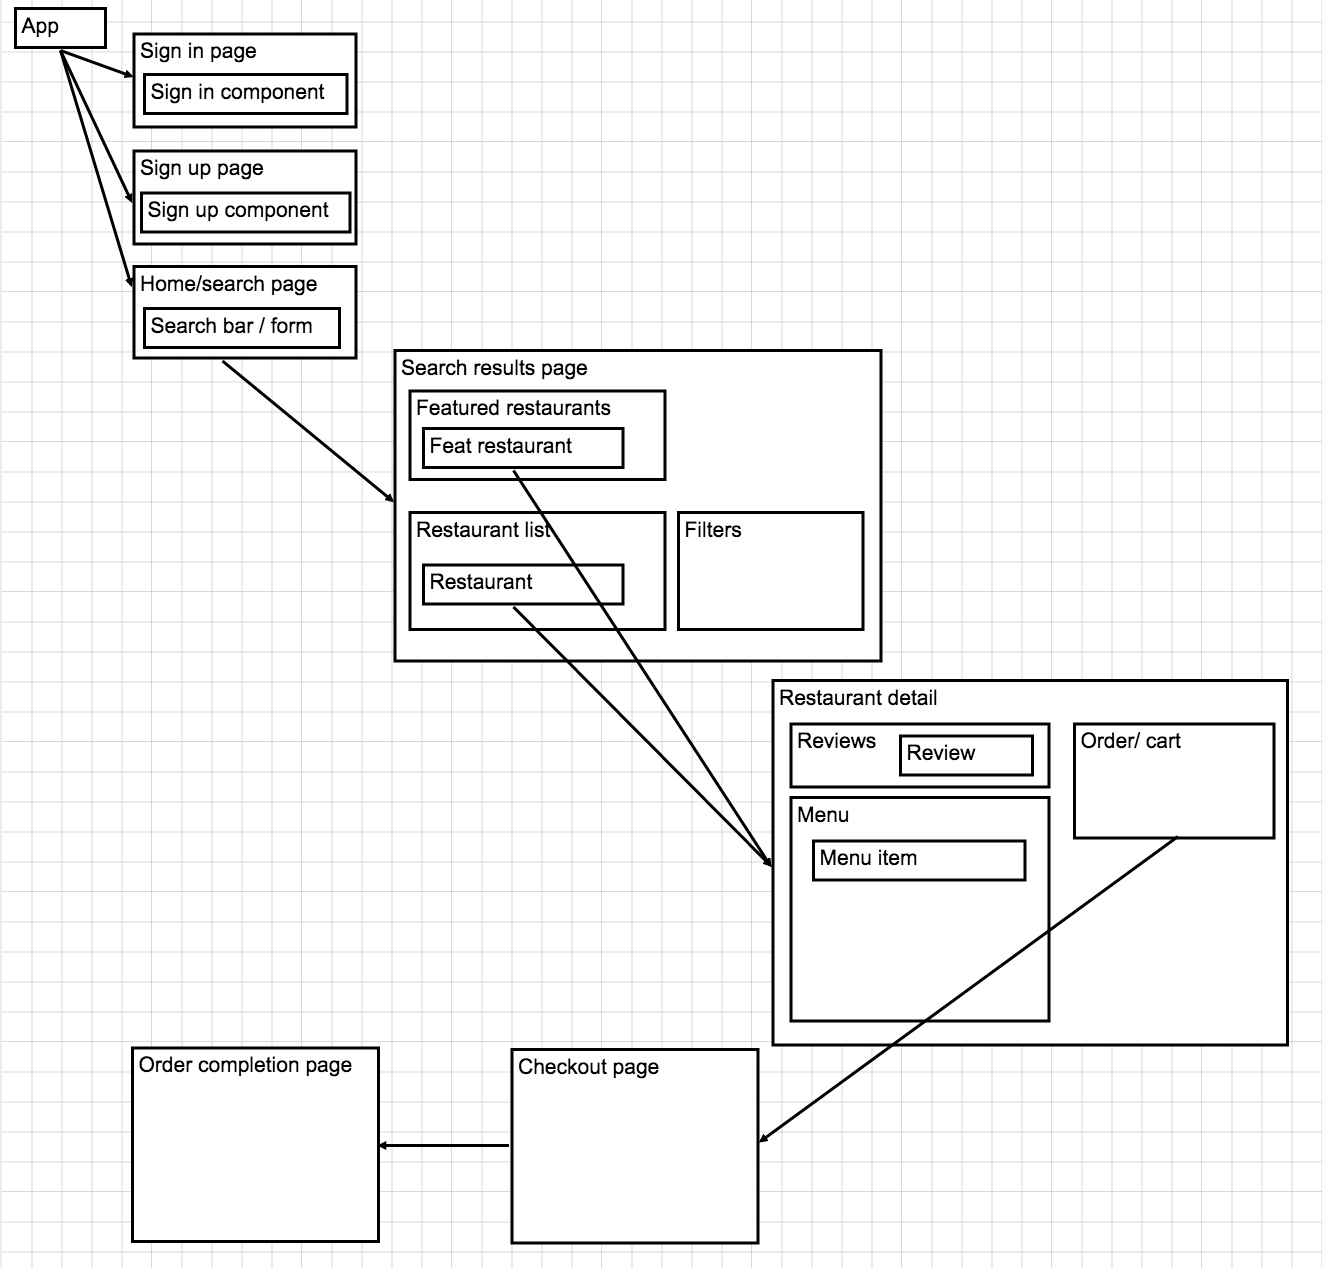
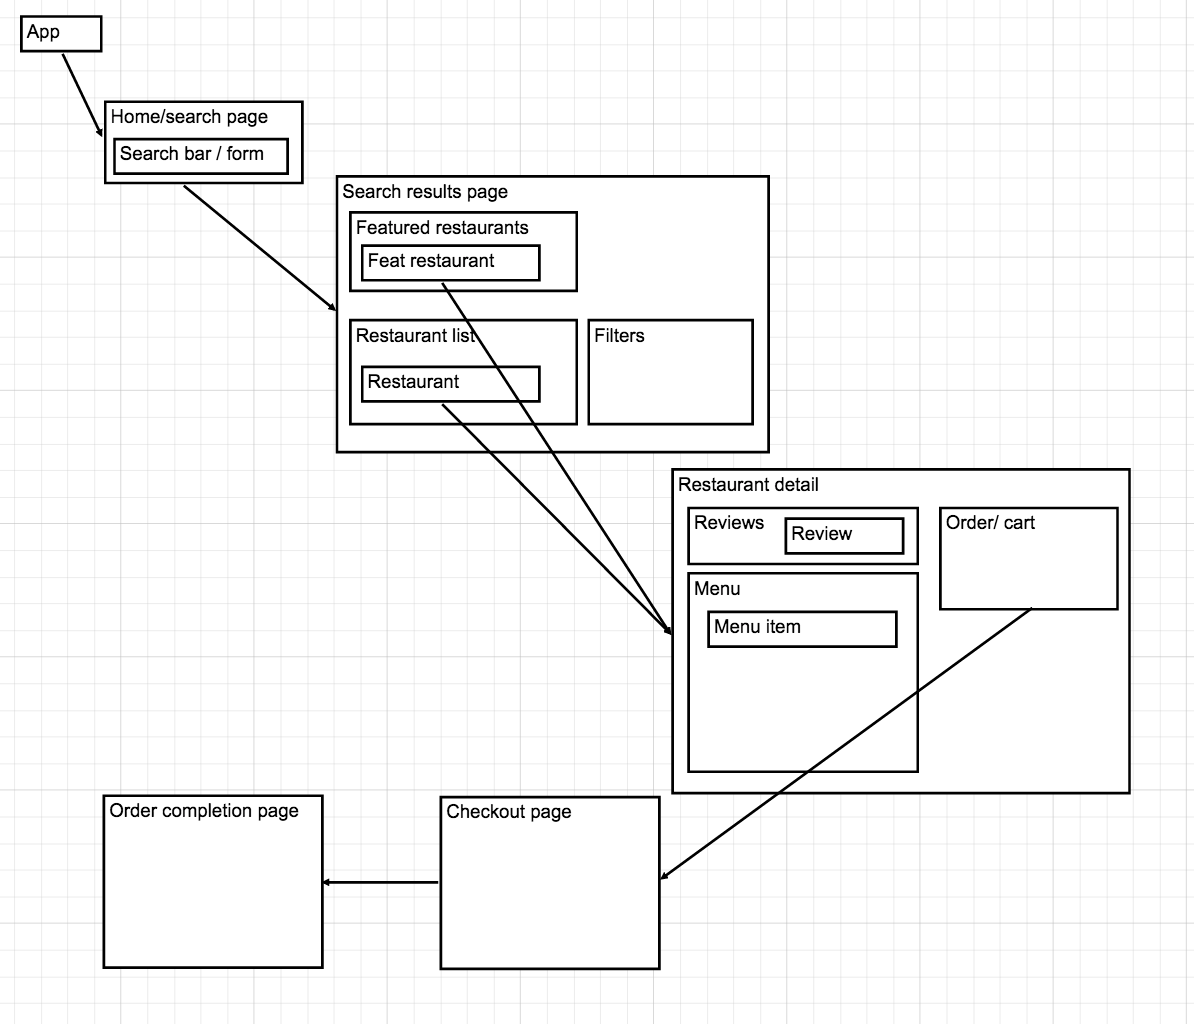
Updates db schema, phase-by-phase timelines and mvp scope

diff --git a/docs/schema.md b/docs/schema.md
@@ -21,20 +21,16 @@ address        | text      | not null
 city           | text      | not null, default "New York City"
 state          | text      | not null, default "New York"
 yelp_id        | integer   |
-delivery_days  | text      |
-delivery_start | integer   |
-delivery_end   | integer   |
+opens_at       | integer   |
+closes_at      | integer   |
 delivery_min   | integer   |
-takeout_days   | text      |
-takeout_start  | integer   |
-takeout_end    | integer   |
 
 ## menu items
    column name | data type | details
 ---------------|-----------|-----------------------
 id             | integer   | not null, primary key
-name           | string    | not null, primary key
-description    | string    | not null, primary key
+name           | string    | not null
+description    | string    | not null
 category       | string    | not null, indexed
 restaurant_id  | string    | not null, foreign key (references restaurants), indexed
 archived       | boolean   | not null, default: false
@@ -45,14 +41,11 @@ archived       | boolean   | not null, default: false
 id             | integer   | not null, primary key
 user_id        | integer   | not null, foreign key (references users), indexed
 restaurant_id  | string    | not null, foreign key (references restaurants), indexed
-date           | datetime  | not null
 scheduled_for  | datetime  | not null
 type           | string    | not null (delivery vs takeout)
 status         | string    | not null
 subtotal       | float     | not null
-tax            | float     | not null
 delivery fee   | float     | not null
-total          | float     | not null
 
 ## order items
    column name | data type | details
@@ -61,7 +54,7 @@ id             | integer   | not null, primary key
 order_id       | integer   | not null, foreign key (references orders), indexed
 menu_item_id   | integer   | not null, foreign key (references menu items), indexed
 quantity       | integer   | not null
-notes          | string    |
+notes          | text      |
 
 ## reviews
    column name | data type | details
@@ -71,12 +64,4 @@ author_id      | integer   | not null, foreign key (references users), indexed
 restaurant_id  | integer   | not null, foreign key (references restaurants), indexed
 stars          | integer   | not null
 title          | string    | not null
-body           | string    | not null
-
-## favorites (polymorphic)
-     column name | data type| details
------------------|----------|-----------------------
-id               | integer  | not null, primary key
-user_id          | integer  | not null, foreign key (references users), indexed
-favoritable_id   | integer  | not null, foreign key (references specific Restaurant or Menu Item), indexed
-favoritable_type | text     | not null, foreign key (references Restaurant or Menu Item class)
+body           | text      | not null

diff --git a/README.md b/README.md
@@ -57,15 +57,15 @@ After the main Flux architecture has been set up, I will focus on
 creating the 'Search Results' component, which will contain a
 'Restaurant List' component to store specific 'Restaurant' components.
 It will also allow users to sort and filter restaurants using a
-'Filter' component. I will use the Google maps API to determine the
-distance of each restaurant from the user's location.
-
-At the end of Phase 2, users should be able to type in their address
+'Filter' component. At the end of Phase 2, users should be able to type in their address
 and receive a full list of restaurants near them. They should then be
 able to filter and sort the restaurants.
 
 I will start doing some basic styling with Bootstrap in Phase 2 and
 begin seeding the database with both Users and Restaurants.
+
+I will start by giving users all restaurant locations but will then use the Google maps API to determine the
+distance of each restaurant from the user's location.
 
 [Details][phase-two]
 
@@ -85,23 +85,17 @@ to start testing the order-creation process.
 
 In Phase 4, I will ensure that orders can be created and committed to
 the database by users. Users will be able to select menu items to view
-details and add them to their Orders.
+details and add them to their Orders. I will also need to create a way for users to place orders without entering payment information.
 
 After orders are submitted, the order statuses will be available,
 letting users know that their order is now in process and being handled
 by the restaurant.
 
-In order to complete orders, very basic credit card processing will be
-required. I will just validate that the user's VISA has the correct
-number and format of digits.
-
 [Details][phase-four]
 
-### Phase 5: Past Orders and Favorites (1 day)
+### Phase 5: Account Component and Past Orders (1 day)
 
-Phase 5 will allow for users to review their past orders from their
-account page. They will also be able to favorite menu items and
-restaurants.
+Phase 5 will create an account view/component and allow users to view their past orders.
 
 [Details][phase-five]
 
@@ -113,6 +107,7 @@ the user experience.
 [Details][phase-six]
 
 ### Potential Bonus Features
+- [ ]  Allow users to create and favorite menu items and restaurants
 - [ ] Allow users to view restaurant reviews pulled from Yelp
 - [ ] Allow users to view a map of available restaurants
 - [ ] Allow users to search for menu items

diff --git a/docs/phases/phase1.md b/docs/phases/phase1.md
@@ -12,9 +12,6 @@
 
 ### Views
 * users/new.html.erb
-* users/edit.html.erb
-* users/show.html.erb
-
 * session/new.html.erb
 
 * home.html.erb

diff --git a/docs/phases/phase5.md b/docs/phases/phase5.md
@@ -1,4 +1,4 @@
-# Phase 5: Past Orders and Favorites (1 day)
+# Phase 5: Account Component and Past Orders (1 day)
 
 ## Rails
 ### Models
